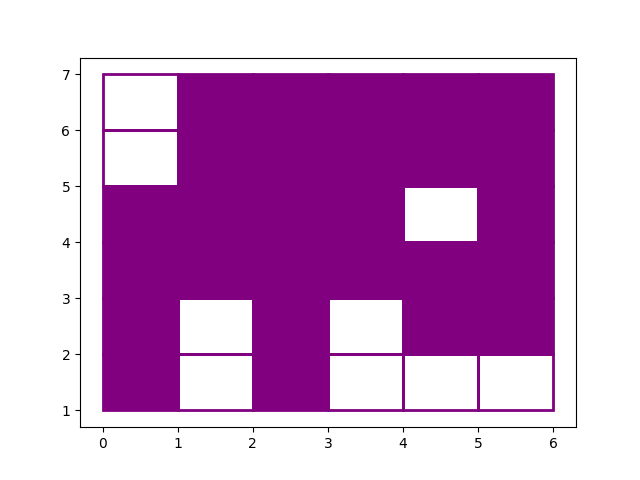
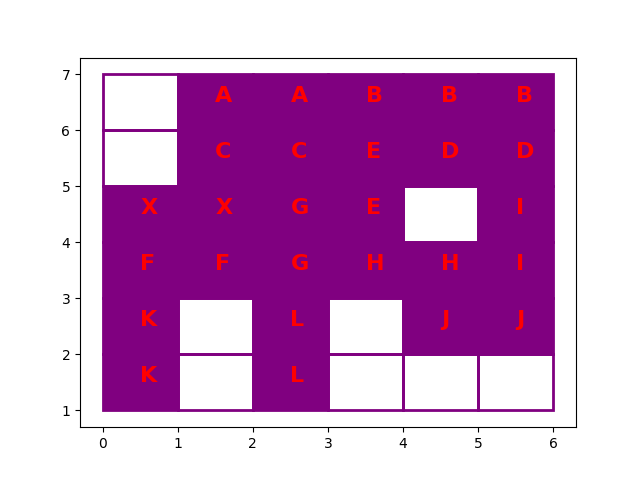
Shows a matplotlib printout with the name of the cars on the squares

diff --git a/code/classes/grid.py b/code/classes/grid.py
@@ -27,6 +27,7 @@ class Grid():
                                         color = "purple",
                                         linewidth = 2)
                     plt.gca().add_patch(rect)
+                    
                 # If the value is not 0, there is a car, the square is filled
                 else:
                     rect=mpatches.Rectangle((x,6-y),1,1, 
@@ -34,6 +35,8 @@ class Grid():
                                             color = "purple",
                                             linewidth = 2)
                     plt.gca().add_patch(rect)
+                    # Add the name of the car on the square where it's found
+                    plt.text(x + 0.5, 6.5-y,self.coordinates[y][x],fontsize=16, color="red", weight="bold")
 
         plt.savefig('name.png') 
     
